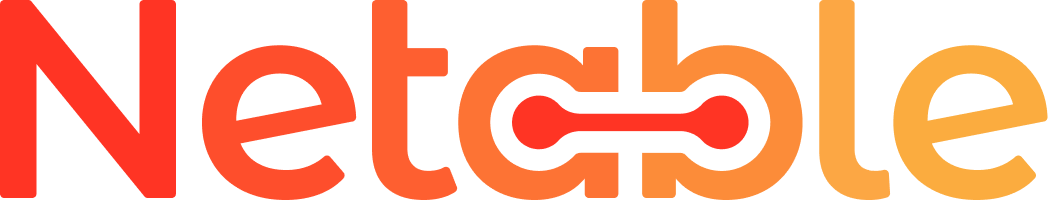
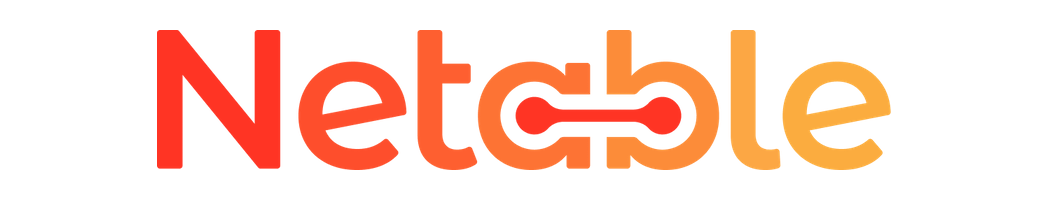
add contributing, code of conduct, shrink header by ~30%

diff --git a/CODE_OF_CONDUCT.md b/CODE_OF_CONDUCT.md
@@ -1,0 +1,41 @@
+# Code of Conduct
+
+This Code of Conduct is adapted from the [Contributor Covenant, version 1.4](http://contributor-covenant.org/version/1/4). Hopefully this is also common sense.
+
+## Our Pledge
+
+In the interest of fostering an open and welcoming environment, we as contributors and maintainers pledge to making participation in our project and our community a harassment-free experience for everyone, regardless of age, body size, disability, ethnicity, gender identity and expression, level of experience, nationality, personal appearance, race, religion, or sexual identity and orientation.
+
+## Our Standards
+
+Examples of behavior that contributes to creating a positive environment include:
+
+* Using welcoming and inclusive language
+* Being respectful of differing viewpoints and experiences
+* Gracefully accepting constructive criticism
+* Focusing on what is best for the community
+* Showing empathy towards other community members
+
+Examples of unacceptable behavior by participants include:
+
+* The use of sexualized language or imagery and unwelcome sexual attention or advances
+* Trolling, insulting/derogatory comments, and personal or political attacks
+* Public or private harassment
+* Publishing others' private information, such as a physical or electronic address, without explicit permission
+* Other conduct which could reasonably be considered inappropriate in a professional setting
+
+## Our Responsibilities
+
+Project maintainers are responsible for clarifying the standards of acceptable behavior and are expected to take appropriate and fair corrective action in response to any instances of unacceptable behavior.
+
+Project maintainers have the right and responsibility to remove, edit, or reject comments, commits, code, wiki edits, issues, and other contributions that are not aligned to this Code of Conduct, or to ban temporarily or permanently any contributor for other behaviors that they deem inappropriate, threatening, offensive, or harmful.
+
+## Scope
+
+This Code of Conduct applies both within project spaces and in public spaces when an individual is representing the project or its community. Examples of representing a project or community include using an official project e-mail address, posting via an official social media account, or acting as an appointed representative at an online or offline event. Representation of a project may be further defined and clarified by project maintainers.
+
+## Enforcement
+
+Instances of abusive, harassing, or otherwise unacceptable behavior may be reported by contacting the project team, and Allen Pike specifically, at contact@steamclock.com. The project team will review and investigate all complaints, and will respond in a way that it deems appropriate to the circumstances. The project team is obligated to maintain confidentiality with regard to the reporter of an incident. Further details of specific enforcement policies may be posted separately.
+
+Project maintainers who do not follow or enforce the Code of Conduct in good faith may face temporary or permanent repercussions as determined by other members of the project's leadership.

diff --git a/CONTRIBUTING.md b/CONTRIBUTING.md
@@ -1,0 +1,7 @@
+Welcome!
+
+Our project is small, so we're happy to receive feedback and bug reports via Github issues. @apike or @brendanlensink will work to triage and respond. You can also email us, contact@steamclock.com.
+
+If you'd like to submit a pull request that doesn't fix something there's already an open issue for, it's probably best to start with filing an issue about what change you'd like to make.
+
+It's worth keeping in mind that automated testing for Bluetooth operations is a lot harder than most other types of functionality. We have some ideas for how do better automated and semi-automated testing, but in the meantime it would be ideal if inbound changes had a plan for how to manually test the functionality.

diff --git a/README.md b/README.md
@@ -9,7 +9,6 @@ Modern apps interact with a lot of different APIs. Netable makes that easier by 
 - [Example](#example)
 - [Requirements](#requirements)
 - [Installation](#installation)
-- [Contributing](#contributing)
 - [License](#license)
 
 ## Features
